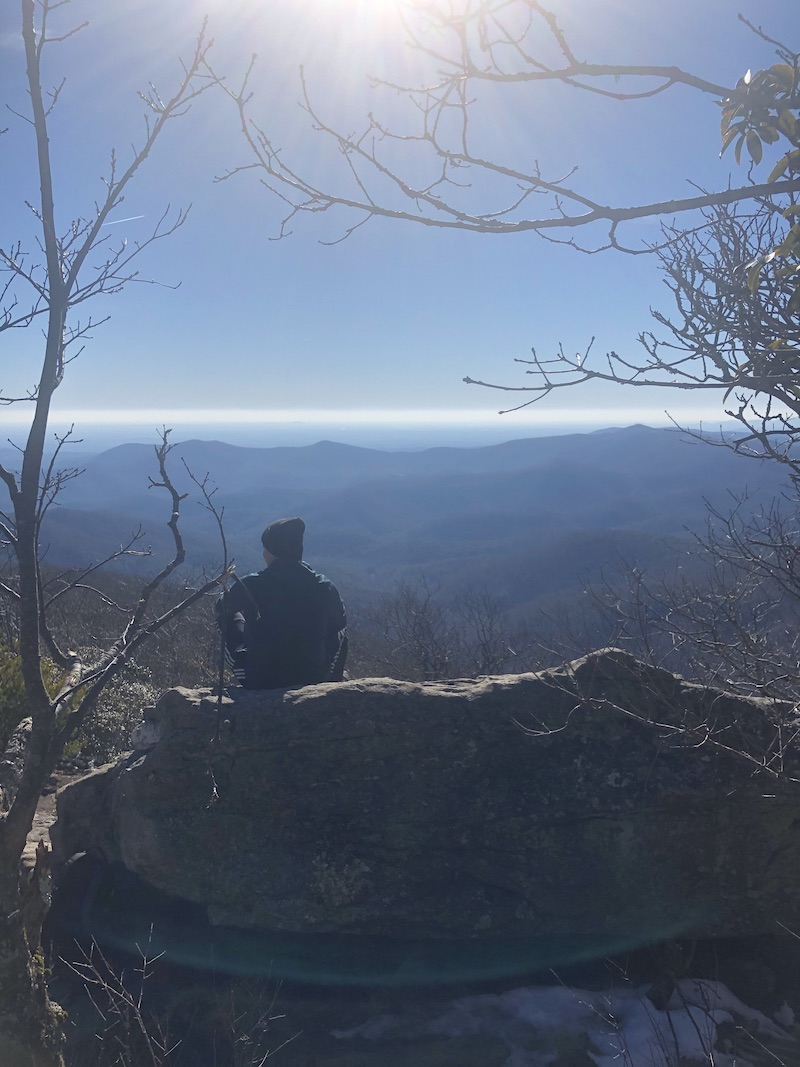
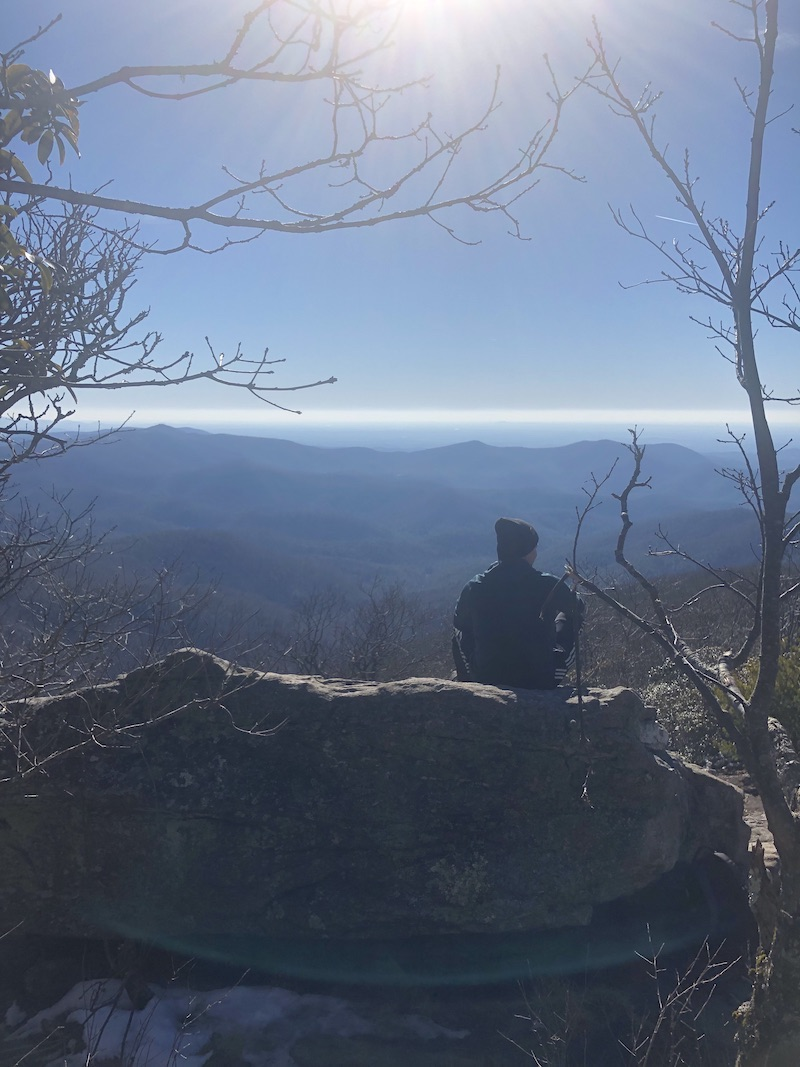
style updates for mobile - home background

diff --git a/style.css b/style.css
@@ -694,6 +694,8 @@ footer span a:hover {
 @media (max-width: 400px) {
   .home {
     max-width: 100%;
+    background: url("images/sm_blood_mountain.jpeg") no-repeat center;
+    max-height: 100vh;
   }
   .max-width {
     padding: 10px;
